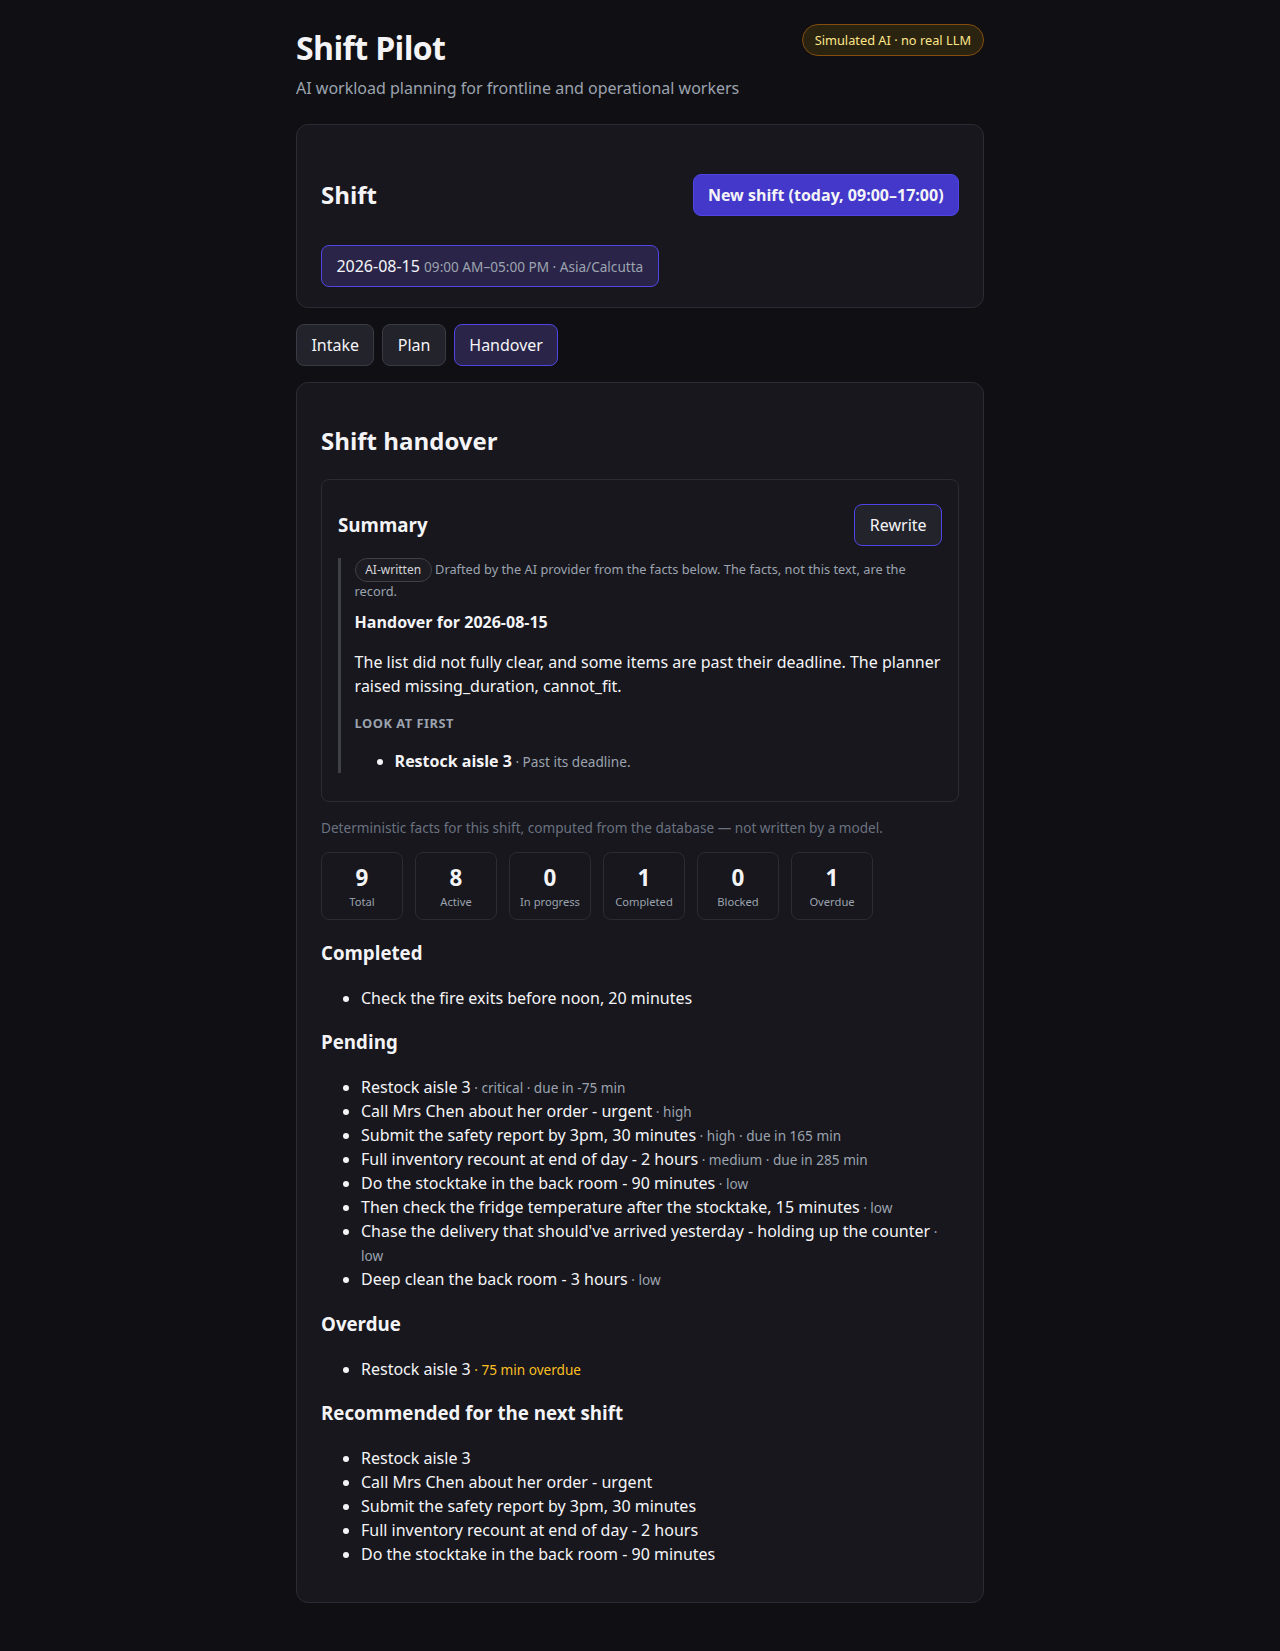
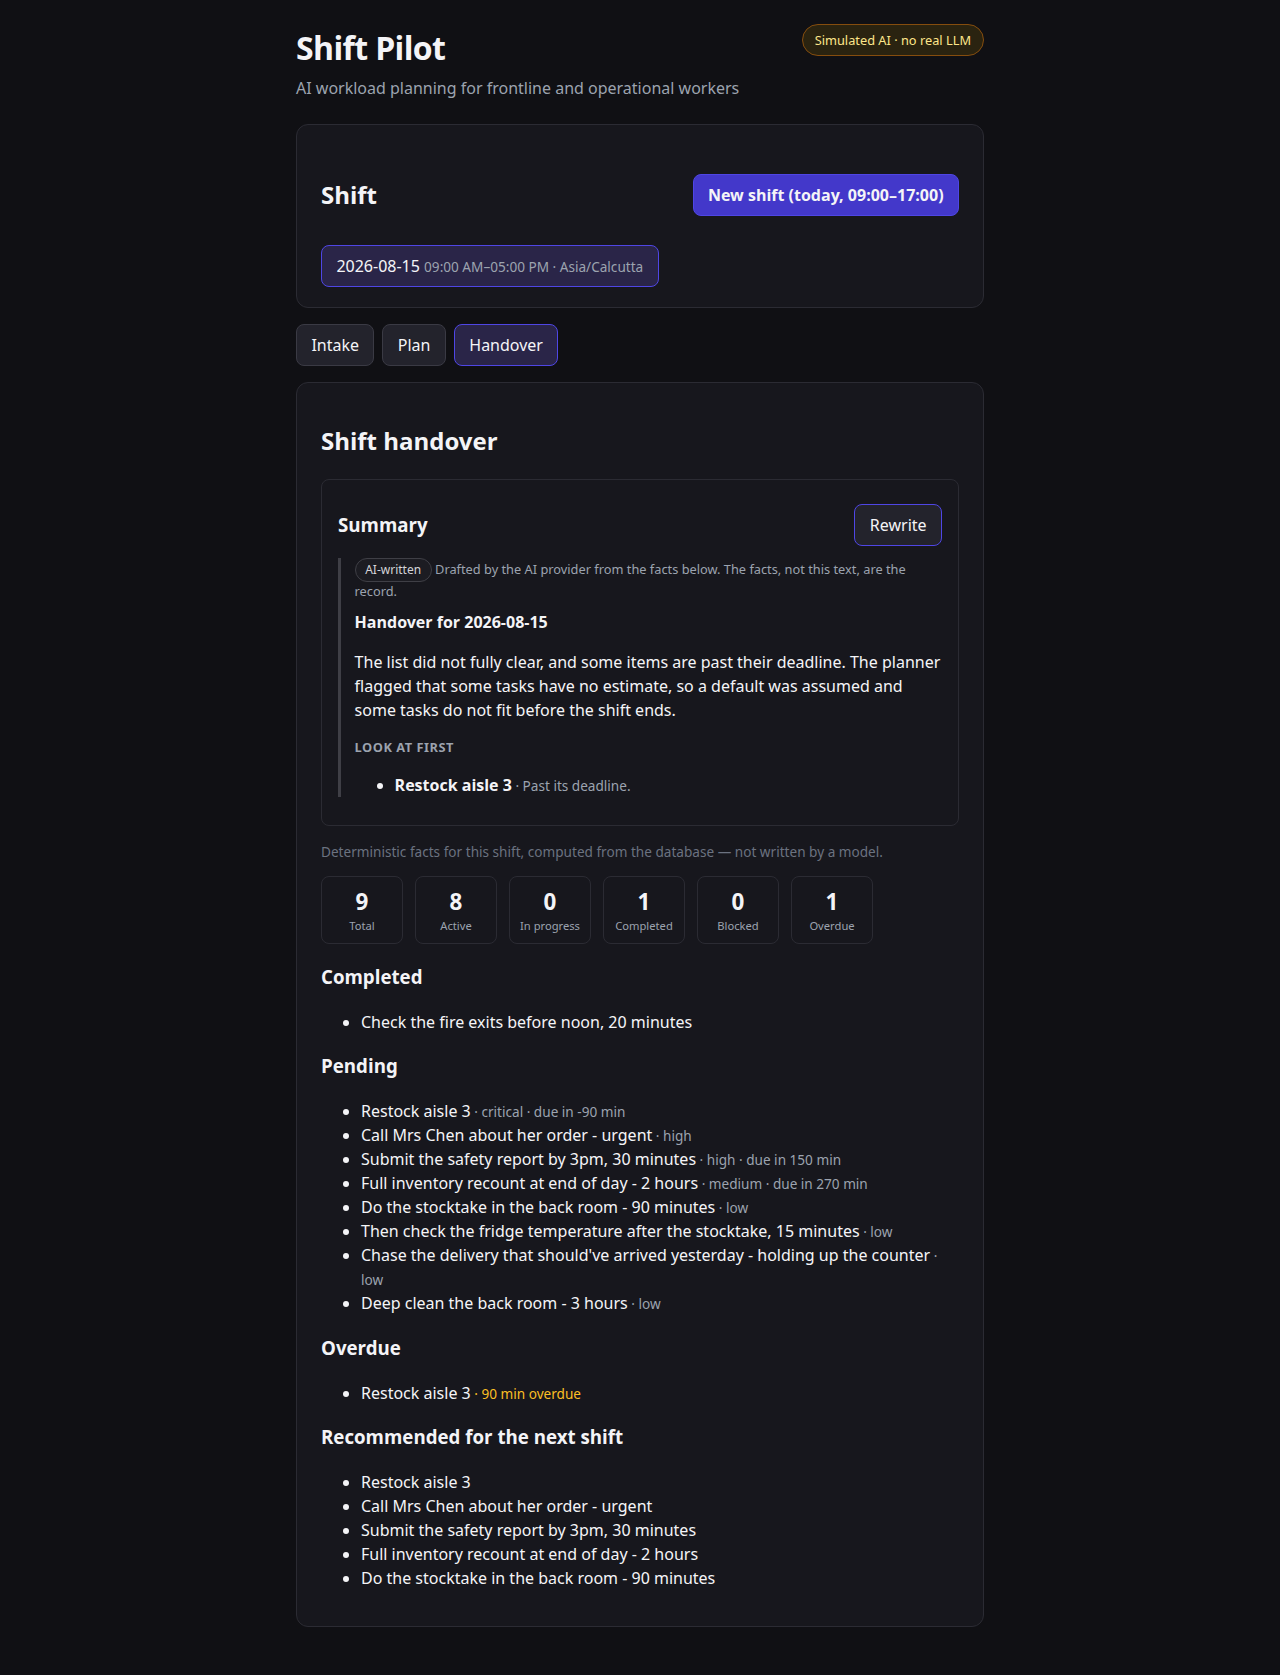
fix(provider): write handover warnings as prose, not planner identifiers
The offline provider's summary rendered plan warnings by their internal type,
so the handover a worker reads said "The planner raised missing_duration,
cannot_fit." That text exists to tell the next person on shift what happened;
raw identifiers tell them nothing, and it was visible in the README screenshot.

Warnings now map to clauses that read as English, joined into a sentence. The
mapping is a Record keyed by PlanWarning["type"] rather than a switch, so adding
a warning type without wording it is a compile error instead of a silent
regression back to leaking the code.

Screenshots re-captured from the rebuilt container so they show what the app
actually says now.

Claude-Session: https://claude.ai/code/session_0146JYZJxhMGZ8T9sHj19gXY

diff --git a/packages/provider/src/fake.ts b/packages/provider/src/fake.ts
@@ -1,4 +1,4 @@
-import type { HandoverFacts, ShiftContext } from "@shiftpilot/contracts"
+import type { HandoverFacts, PlanWarning, ShiftContext } from "@shiftpilot/contracts"
 import type {
   AiProvider,
   AiProviderMeta,
@@ -87,16 +87,38 @@ export class FakeAiProvider implements AiProvider {
       ok: true,
       raw: {
         headline: `Handover for ${facts.date}`,
-        summary: [
-          shape,
-          facts.warnings.length > 0
-            ? `The planner raised ${facts.warnings.map((w) => w.type).join(", ")}.`
-            : "The planner raised no warnings.",
-        ].join(" "),
+        summary: [shape, warningSentence(facts.warnings)].join(" "),
         attention,
       },
     }
   }
+}
+
+/**
+ * Plan warnings as something a worker reads, not as the identifiers the planner
+ * uses internally: this text lands in a handover the next person on shift reads,
+ * and "missing_duration, cannot_fit" tells them nothing.
+ *
+ * A Record rather than a switch so the compiler fails when a new PlanWarning
+ * type is added and its wording is not — a missing case would otherwise fall
+ * back to leaking the raw code again.
+ */
+const WARNING_CLAUSE: Record<PlanWarning["type"], string> = {
+  cannot_fit: "some tasks do not fit before the shift ends",
+  missing_duration: "some tasks have no estimate, so a default was assumed",
+  dependency_cycle: "some tasks depend on each other in a loop",
+  shift_ended: "the shift has already ended",
+  empty_workload: "no tasks were captured",
+  draft_not_approved: "some extracted tasks are still waiting for approval",
+}
+
+function warningSentence(warnings: readonly PlanWarning[]): string {
+  if (warnings.length === 0) return "The planner flagged nothing else."
+
+  const clauses = warnings.map((warning) => WARNING_CLAUSE[warning.type])
+  const last = clauses[clauses.length - 1]!
+  const joined = clauses.length === 1 ? last : `${clauses.slice(0, -1).join(", ")} and ${last}`
+  return `The planner flagged that ${joined}.`
 }
 
 // ---------------------------------------------------------------------------

diff --git a/packages/provider/src/fake.test.ts b/packages/provider/src/fake.test.ts
@@ -166,7 +166,7 @@ describe("FakeAiProvider", () => {
         headline: "Handover for 2026-08-12",
         summary:
           "The list did not fully clear, and some items are past their deadline. " +
-          "The planner raised dependency_cycle.",
+          "The planner flagged that some tasks depend on each other in a loop.",
         attention: [
           { taskId: "p1", why: "Past its deadline." },
           { taskId: "b1", why: "Waiting on Parts delivery." },
@@ -202,6 +202,36 @@ describe("FakeAiProvider", () => {
       expect(attempt.ok).toBe(true)
       if (!attempt.ok) return
       expect((attempt.raw as { attention: unknown[] }).attention).toHaveLength(5)
+    })
+
+    it("writes warnings as prose, never as planner identifiers", async () => {
+      const flagged: HandoverFacts = {
+        ...FACTS,
+        warnings: [
+          { type: "missing_duration", taskIds: ["p1"] },
+          { type: "cannot_fit", taskIds: ["p1"] },
+        ],
+      }
+      const attempt = await provider.generateHandover(flagged)
+      expect(attempt.ok).toBe(true)
+      if (!attempt.ok) return
+
+      const { summary } = attempt.raw as { summary: string }
+      expect(summary).toContain(
+        "The planner flagged that some tasks have no estimate, so a default was assumed " +
+          "and some tasks do not fit before the shift ends.",
+      )
+      // The whole point: this text goes to the next person on shift.
+      expect(summary).not.toMatch(/_/)
+    })
+
+    it("says so plainly when there is nothing else to flag", async () => {
+      const attempt = await provider.generateHandover({ ...FACTS, warnings: [] })
+      expect(attempt.ok).toBe(true)
+      if (!attempt.ok) return
+      expect((attempt.raw as { summary: string }).summary).toContain(
+        "The planner flagged nothing else.",
+      )
     })
 
     it("can be forced to fail so degraded handover has an offline twin", async () => {
